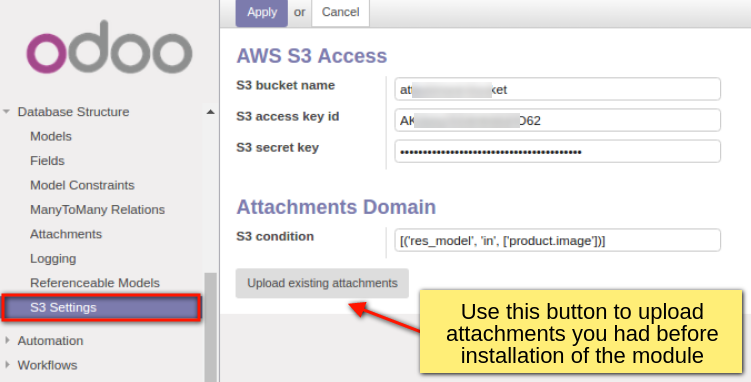
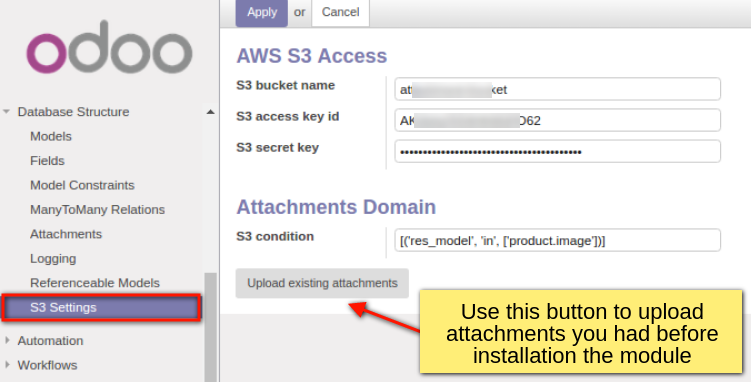
[DOC] fix spelling

Changed region(s): [[0.6125, 0.8927, 0.9494, 0.9503]]

diff --git a/ir_attachment_s3/static/description/index.html b/ir_attachment_s3/static/description/index.html
@@ -123,7 +123,7 @@
 				  - <code>s3.access_key_id</code>: S3 access key ID <br/>
 				  - <code>s3.secret_key</code>: S3 secret access key
 				</li>
-				<li>Click on <code>Upload existing attachments</code> if you want to upload attachments you had before installation of the module</li>
+				<li>Click on <code>Upload existing attachments</code> if you want to upload attachments you had before installation the module</li>
 			  </ul>
 			</p>
 		<div class="oe_demo oe_picture oe_screenshot">
